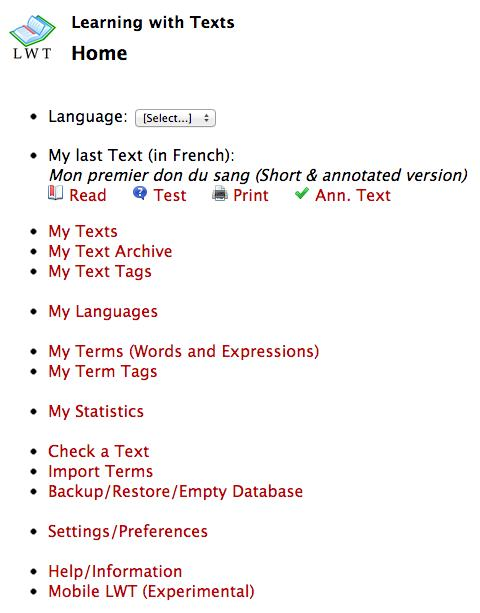
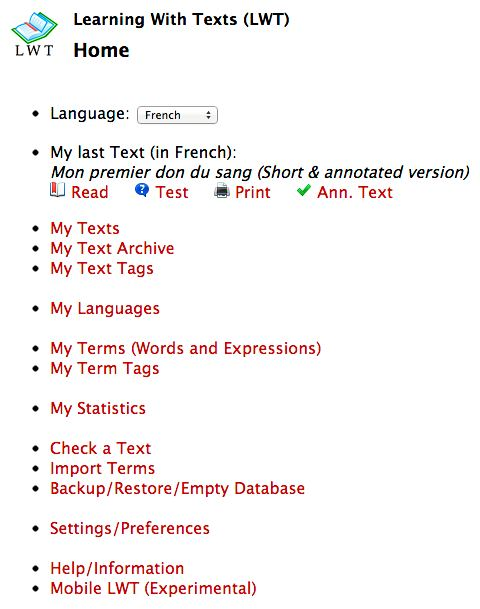
Version 1.5.2 (09-Jun-2013 12:32)

diff --git a/info.htm b/info.htm
@@ -631,10 +631,10 @@ Developed by J. P. in 2011, 2012, 2013.
           <li>Step 1: Go to <a href="http://www.apachefriends.org/en/xampp-windows.html" target="_blank">http://www.apachefriends.org/en/xampp-windows.html</a>.
           </li>
 
-          <li>Step 2: Download the XAMPP Windows zip archive (currently XAMPP Windows 1.7.4 ZIP 123 MB).
+          <li>Step 2: Download the XAMPP Windows zip archive (currently XAMPP Windows 1.8.1 ZIP 184 MB).
           </li>
 
-          <li>Step 3: Open the downloaded <i>xampp-win32-1.7.4-VC6.zip</i> and extract everything to <i>C:\</i>. -- Result: <i>C:\xampp</i> will be created. (Important: Do not install into <i>C:\Program Files</i>!)
+          <li>Step 3: Open the downloaded <i>xampp-win32-1.8.1-VC9.zip</i> and extract everything to <i>C:\</i>. -- Result: <i>C:\xampp</i> will be created. (Important: Do not install into <i>C:\Program Files</i>!)
           </li>
 
           <li>Step 4: Go to <a href="http://sourceforge.net/projects/lwt" target="_blank">http://sourceforge.net/projects/lwt</a> and download the latest zip archive <i>lwt_v_x_y.zip</i>.
@@ -689,42 +689,37 @@ Developed by J. P. in 2011, 2012, 2013.
             <br />
           </li>
 
-          <li>Watch the <a href="http://www.youtube.com/watch?v=Ajc2dWwVe9g" target="_blank">video</a> (made by <a href="http://www.youtube.com/user/TheFineApps" target="_blank">TheFineApps</a>):<br />
-          <b>Important:</b> The installation of the database via phpMyAdmin (in the video 4:23 ... 6:42) isn't anymore necessary,<br /> you can do this now within LWT.<br /><br />
-          <iframe width="640" height="510" src="http://www.youtube.com/embed/Ajc2dWwVe9g" frameborder="0" allowfullscreen></iframe><br /><br />
-          </li>
-
           <li>Step 1: Go to <a href="http://www.easyphp.org/download.php" target="_blank">http://www.easyphp.org/download.php</a>.
           </li>
 
-          <li>Step 2: Download the EasyPHP Setup EXE (currently EasyPHP 5.3.6.1, from now written as: 5.x.y.z).
+          <li>Step 2: Download the "EASYPHP DEVSERVER for Windows XP to Windows 8" (currently EasyPHP 13.1 VC9).
           </li>
 
-          <li>Step 3: Install the downloaded <i>EasyPHP-5.x.y.z-setup.exe</i> into <i>C:\Program Files\EasyPHP-5.x.y.z</i>.
+          <li>Step 3: Install the downloaded <i>EasyPHP-...-setup.exe</i> into <i>C:\Program Files\EasyPHP-...</i>.
           </li>
 
           <li>Step 4: Go to <a href="http://sourceforge.net/projects/lwt" target="_blank">http://sourceforge.net/projects/lwt</a> and download the latest zip archive <i>lwt_v_x_y.zip</i>.
           </li>
 
-          <li>Step 5: Copy the downloaded zip archive <i>lwt_v_x_y.zip</i> into the directory <i>www</i> below the EasyPHP installation directory, i.e. <i>C:\Program Files\EasyPHP-5.x.y.z\www</i>.
+          <li>Step 5: Copy the downloaded zip archive <i>lwt_v_x_y.zip</i> into the directory <i>www</i> below the EasyPHP installation directory, i.e. <i>C:\Program Files\EasyPHP-...\www</i>.
           </li>
 
-          <li>Step 6: Double-click on the zip archive to open it, and unzip everything into a new folder <i>C:\Program Files\EasyPHP-5.x.y.z\www\lwt</i>.
+          <li>Step 6: Double-click on the zip archive to open it, and unzip everything into a new folder <i>C:\Program Files\EasyPHP-...\www\lwt</i>.
           </li>
 
-          <li>Step 7: The zip archive <i>C:\Program Files\EasyPHP-5.x.y.z\www\lwt_v_x_y.zip</i> may be deleted.
+          <li>Step 7: The zip archive <i>C:\Program Files\EasyPHP-...\www\lwt_v_x_y.zip</i> may be deleted.
           </li>
 
-          <li>Step 8: Go to <i>C:\Program Files\EasyPHP-5.x.y.z\www\lwt</i>. Rename the file <i>connect_easyphp.inc.php</i> to <i>connect.inc.php</i>.
+          <li>Step 8: Go to <i>C:\Program Files\EasyPHP-...\www\lwt</i>. Rename the file <i>connect_easyphp.inc.php</i> to <i>connect.inc.php</i>.
           </li>
 
-          <li>Step 9: Start EasyPHP via the Windows Start Menu.
+          <li>Step 9: Start EasyPHP via the Windows Start Menu. In the Task Bar near the clock appears the EasyPHP app icon.
           </li>
 
-          <li>Step 10: LWT can now be started in your web browser, go to: <a href="http://127.0.0.1/lwt" target="_blank">http://127.0.0.1/lwt</a>. 
+          <li>Step 10: LWT can now be started. Right-Click on the EasyPHP icon in the taskbar, choose "Local Web", and click on "lwt" in the webpage. You may also bookmark the LWT home page. 
           </li>
 
-          <li>Step 11: You may install the LWT demo database, or define the first language you want to learn. 
+          <li>Step 11: You may now install the LWT demo database, or define the first language you want to learn. 
             <br />
             <br />
           </li>
@@ -785,18 +780,18 @@ Developed by J. P. in 2011, 2012, 2013.
             <br />
           </li>
         
-          <li>Step 1: Backup (Copy or ZIP) the directory <i>C:\Program Files\EasyPHP-5.x.y.z\www\lwt</i>. Backup your database (within LWT).
+          <li>Step 1: Backup (Copy or ZIP) the directory <i>C:\Program Files\EasyPHP-...\www\lwt</i>. Backup your database (within LWT).
           </li>
 
           <li>Step 2: Unpack the downloaded ZIP archive <i>lwt_v_x_y.zip</i> in a directory of your choice.
           </li>
 
-          <li>Step 3: Copy everything (incl. sub-directories) you unpacked to <i>C:\Program Files\EasyPHP-5.x.y.z\www\lwt</i>.
+          <li>Step 3: Copy everything (incl. sub-directories) you unpacked to <i>C:\Program Files\EasyPHP-...\www\lwt</i>.
             <br />
             You must keep (those are <b>not</b> included in the distributed package):
             <ul>
-							<li>the database connection parameters <i>C:\Program Files\EasyPHP-5.x.y.z\www\lwt\connect.inc.php</i> (you created this by renaming, see installation) and</li>
-							<li>the whole media sub-directory <i>C:\Program Files\EasyPHP-5.x.y.z\www\lwt\media</i> (contains your MP3 audio files).</li>
+							<li>the database connection parameters <i>C:\Program Files\EasyPHP-...\www\lwt\connect.inc.php</i> (you created this by renaming, see installation) and</li>
+							<li>the whole media sub-directory <i>C:\Program Files\EasyPHP-...\www\lwt\media</i> (contains your MP3 audio files).</li>
             </ul>
           </li>
 
@@ -826,7 +821,7 @@ Developed by J. P. in 2011, 2012, 2013.
           <li>Step 1: Go to <a href="http://mamp.info/en/index.html" target="_blank">http://mamp.info/en/index.html</a>.
           </li>
 
-          <li>Step 2: Download the zipped DMG Image (currently MAMP_MAMP_PRO_2.0.1.zip, 125 MB).
+          <li>Step 2: Download the zipped DMG Image (currently MAMP_MAMP_PRO_2.1.4.zip, 146 MB).
           </li>
 
           <li>Step 3: Unzip the zipped DMG Image, choose the 32 or 64 bit architecture (modern Macs: 64 bit) folder, and install MAMP.pkg, accept the license, on the Installation Type panel click on "Customize", deselect "MAMP PRO", then click Install.
@@ -1321,13 +1316,16 @@ Developed by J. P. in 2011, 2012, 2013.
             With the checkbox [Show All] you can switch the display of text:
             <br />
             <br />
-            [Show All] = ON (see above): All terms are shown, and all multi-word terms are shown as superscripts before the first word. The superscript indicates the number of words in the multi-word term. 
+            [Show All] = ON (see below): All terms are shown, and all multi-word terms are shown as superscripts before the first word. The superscript indicates the number of words in the multi-word term. 
+            <br />
+            <br />
+            <img class="grayborder" src="img/22.jpg" alt="Image" />
             <br />
             <br />
         		[Show All] = OFF (see below): Multi-word terms now hide single words and shorter or overlapping multi-word terms. This makes it easier to concentrate on multi-word terms while displaying them without superscripts, but creation and deletion of multi-word terms can be a bit slow in long texts. 
         		<br />
             <br />
-            <img class="grayborder" src="img/22.jpg" alt="Image" />
+            <img class="grayborder" src="img/30.jpg" alt="Image" />
             <br />
             <br />
           </li>
@@ -2273,7 +2271,7 @@ with audioplayer", if needed.</li>
         	<br />
         	"Backup" does not store anymore the tables 'sentences' and 'textitems'. These tables are now automatically recreated (by reparsing the texts) within "Restore". This makes backup faster and the backup file much smaller, while "Restore" will take a bit longer.
         	<br />
-        	Documentation and screenshots updated. 
+        	Documentation and all screenshots updated. 
         	<br /><br />
         	</li>
 
